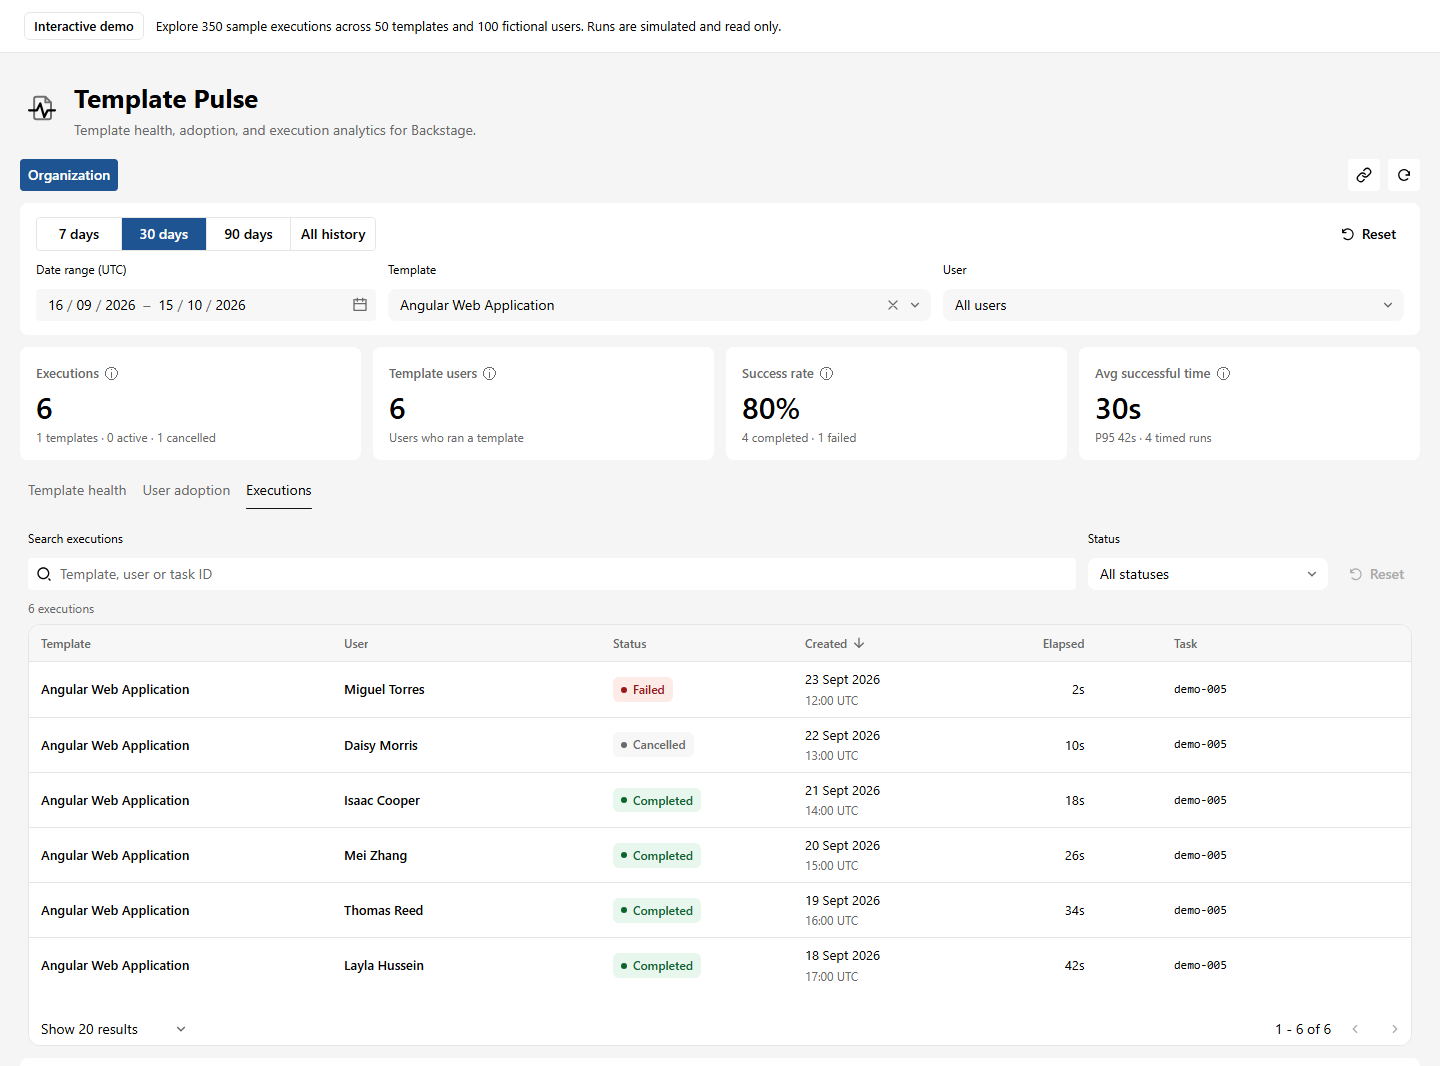
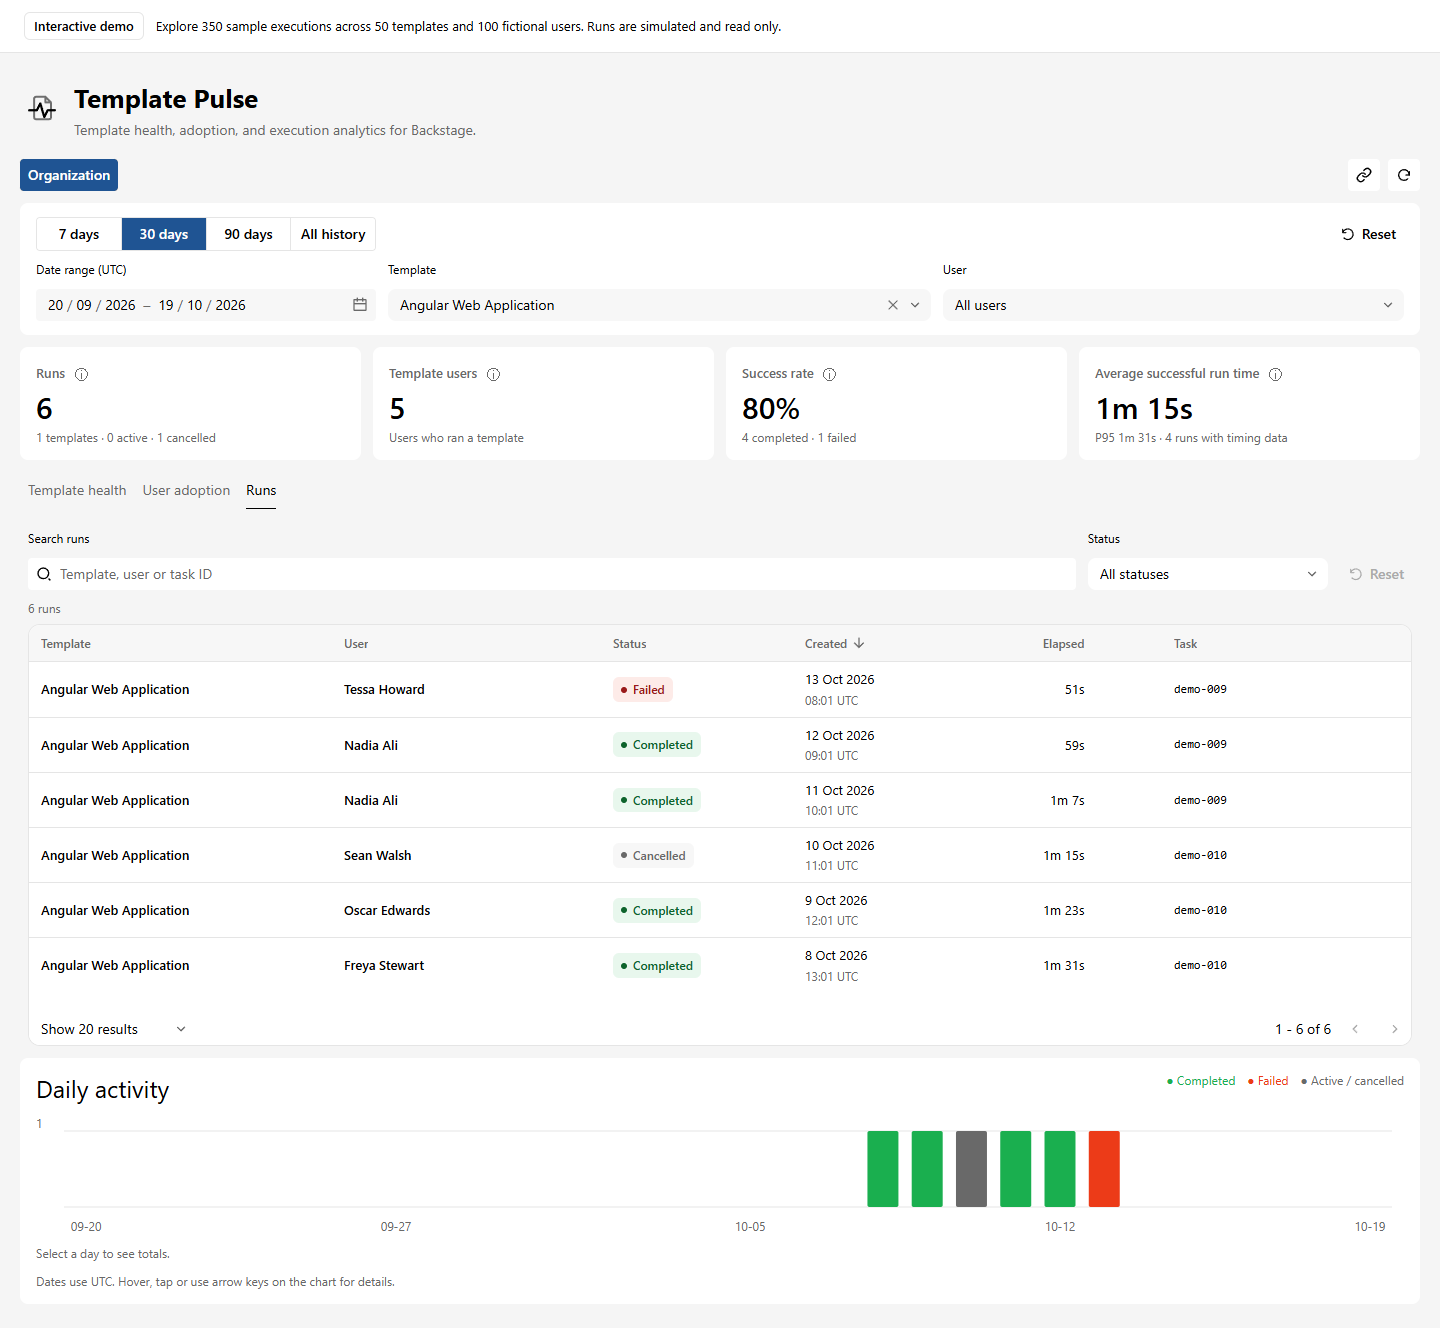
chore: update assets

diff --git a/plugins/template-pulse/src/HistoryCoverage.tsx b/plugins/template-pulse/src/HistoryCoverage.tsx
@@ -12,7 +12,9 @@ export function HistoryCoverage({
     <Alert
       status="warning"
       title="Older runs are excluded"
-      description="Totals and rates may be incomplete."
+      description={`History is limited to the latest ${window.limit} ${
+        window.limit === 1 ? 'run' : 'runs'
+      }. Totals and rates may be incomplete. Ask your administrator to enable full history.`}
     />
   );
 }
